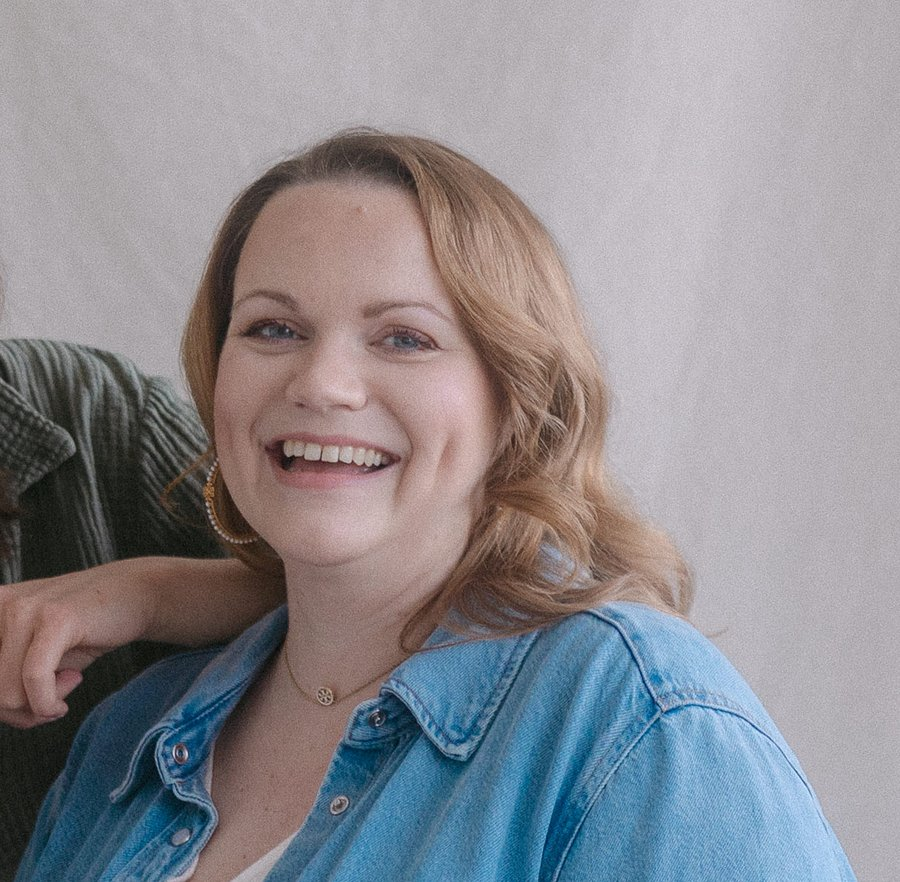
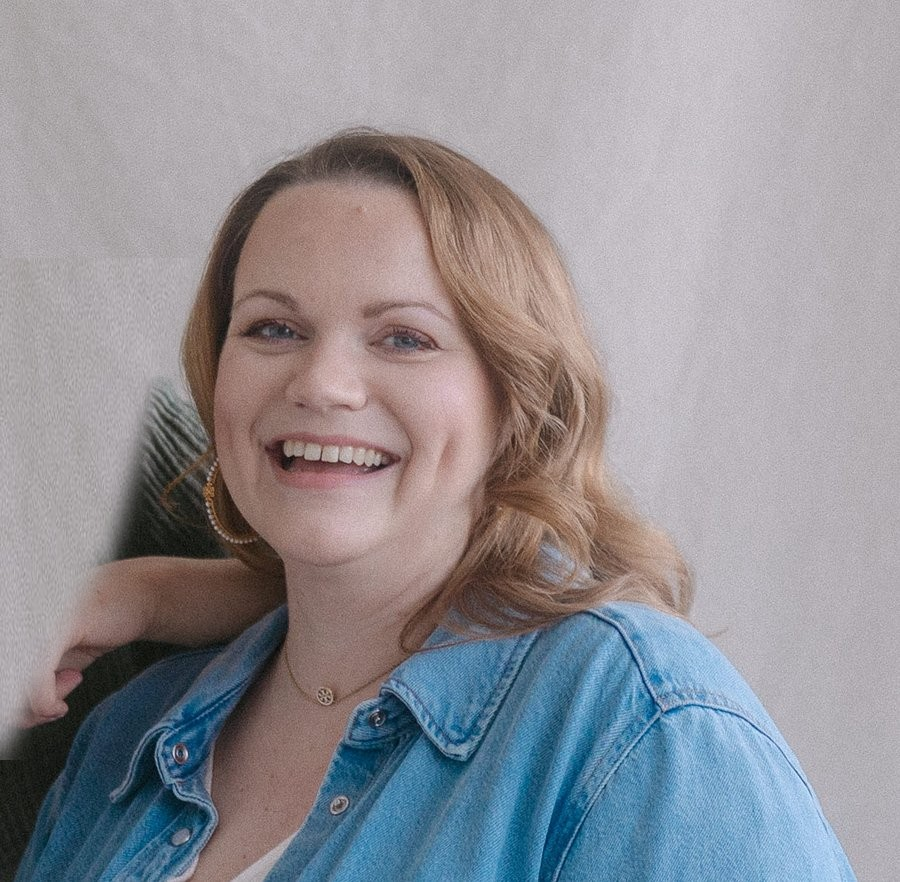
Remove Julia's arm from Stephanie's portrait, capitalize nav label
- team-stephanie.jpg: the tight headshot crop still caught Julia's
  arm resting on Stephanie's shoulder, which made the two portraits
  read as mismatched (only one side showing a connecting arm).
  Cloned in background (sampled from the clean curtain above,
  tapered/feathered mask following the arm's actual silhouette) to
  paint it out entirely rather than trying to make both crops align
  into one continuous image - more robust given the crops are
  independently sized. Confirmed clean at actual card display size.
- Nav label capitalized: "wer steckt dahinter" -> "Wer steckt
  dahinter" across all pages.

Claude-Session: https://claude.ai/code/session_01NjvXYwXuPSC6ymX2jvEvzR

Changed region(s): [[0.0, 0.3673, 0.1867, 0.8571]]

diff --git a/index.html b/index.html
@@ -25,7 +25,7 @@
   <button class="nav-toggle" aria-label="Menü öffnen" aria-expanded="false">☰</button>
   <nav class="nav">
     <a href="ueber-uns.html" data-magnetic>Über uns</a>
-    <a href="team.html" data-magnetic>wer steckt dahinter</a>
+    <a href="team.html" data-magnetic>Wer steckt dahinter</a>
   </nav>
   <a href="newsletter.html" class="btn btn--small" data-magnetic>Newsletter</a>
 </header>
@@ -204,7 +204,7 @@
     <span class="logo"><img src="assets/images/logo.png" alt="Frauen mit Plan B" class="logo-img"></span>
     <nav class="nav">
       <a href="ueber-uns.html" data-magnetic>Über uns</a>
-      <a href="team.html" data-magnetic>wer steckt dahinter</a>
+      <a href="team.html" data-magnetic>Wer steckt dahinter</a>
       <a href="newsletter.html" data-magnetic>Newsletter</a>
     </nav>
     <div class="site-footer__social">

diff --git a/ueber-uns.html b/ueber-uns.html
@@ -19,7 +19,7 @@
   <button class="nav-toggle" aria-label="Menü öffnen" aria-expanded="false">☰</button>
   <nav class="nav">
     <a href="ueber-uns.html" data-magnetic>Über uns</a>
-    <a href="team.html" data-magnetic>wer steckt dahinter</a>
+    <a href="team.html" data-magnetic>Wer steckt dahinter</a>
   </nav>
   <a href="newsletter.html" class="btn btn--small" data-magnetic>Newsletter</a>
 </header>
@@ -109,7 +109,7 @@
     <span class="logo"><img src="assets/images/logo.png" alt="Frauen mit Plan B" class="logo-img"></span>
     <nav class="nav">
       <a href="ueber-uns.html" data-magnetic>Über uns</a>
-      <a href="team.html" data-magnetic>wer steckt dahinter</a>
+      <a href="team.html" data-magnetic>Wer steckt dahinter</a>
       <a href="newsletter.html" data-magnetic>Newsletter</a>
     </nav>
     <div class="site-footer__social">

diff --git a/newsletter.html b/newsletter.html
@@ -19,7 +19,7 @@
   <button class="nav-toggle" aria-label="Menü öffnen" aria-expanded="false">☰</button>
   <nav class="nav">
     <a href="ueber-uns.html" data-magnetic>Über uns</a>
-    <a href="team.html" data-magnetic>wer steckt dahinter</a>
+    <a href="team.html" data-magnetic>Wer steckt dahinter</a>
   </nav>
   <a href="newsletter.html" class="btn btn--small" data-magnetic>Newsletter</a>
 </header>
@@ -78,7 +78,7 @@
     <span class="logo"><img src="assets/images/logo.png" alt="Frauen mit Plan B" class="logo-img"></span>
     <nav class="nav">
       <a href="ueber-uns.html" data-magnetic>Über uns</a>
-      <a href="team.html" data-magnetic>wer steckt dahinter</a>
+      <a href="team.html" data-magnetic>Wer steckt dahinter</a>
       <a href="newsletter.html" data-magnetic>Newsletter</a>
     </nav>
     <div class="site-footer__social">

diff --git a/team.html b/team.html
@@ -19,7 +19,7 @@
   <button class="nav-toggle" aria-label="Menü öffnen" aria-expanded="false">☰</button>
   <nav class="nav">
     <a href="ueber-uns.html" data-magnetic>Über uns</a>
-    <a href="team.html" data-magnetic>wer steckt dahinter</a>
+    <a href="team.html" data-magnetic>Wer steckt dahinter</a>
   </nav>
   <a href="newsletter.html" class="btn btn--small" data-magnetic>Newsletter</a>
 </header>
@@ -81,7 +81,7 @@
     <span class="logo"><img src="assets/images/logo.png" alt="Frauen mit Plan B" class="logo-img"></span>
     <nav class="nav">
       <a href="ueber-uns.html" data-magnetic>Über uns</a>
-      <a href="team.html" data-magnetic>wer steckt dahinter</a>
+      <a href="team.html" data-magnetic>Wer steckt dahinter</a>
       <a href="newsletter.html" data-magnetic>Newsletter</a>
     </nav>
     <div class="site-footer__social">

diff --git a/datenschutz.html b/datenschutz.html
@@ -13,7 +13,7 @@
   <button class="nav-toggle" aria-label="Menü öffnen" aria-expanded="false">☰</button>
   <nav class="nav">
     <a href="ueber-uns.html">Über uns</a>
-    <a href="team.html">wer steckt dahinter</a>
+    <a href="team.html">Wer steckt dahinter</a>
   </nav>
   <a href="newsletter.html" class="btn btn--small">Newsletter</a>
 </header>

diff --git a/impressum.html b/impressum.html
@@ -13,7 +13,7 @@
   <button class="nav-toggle" aria-label="Menü öffnen" aria-expanded="false">☰</button>
   <nav class="nav">
     <a href="ueber-uns.html">Über uns</a>
-    <a href="team.html">wer steckt dahinter</a>
+    <a href="team.html">Wer steckt dahinter</a>
   </nav>
   <a href="newsletter.html" class="btn btn--small">Newsletter</a>
 </header>
